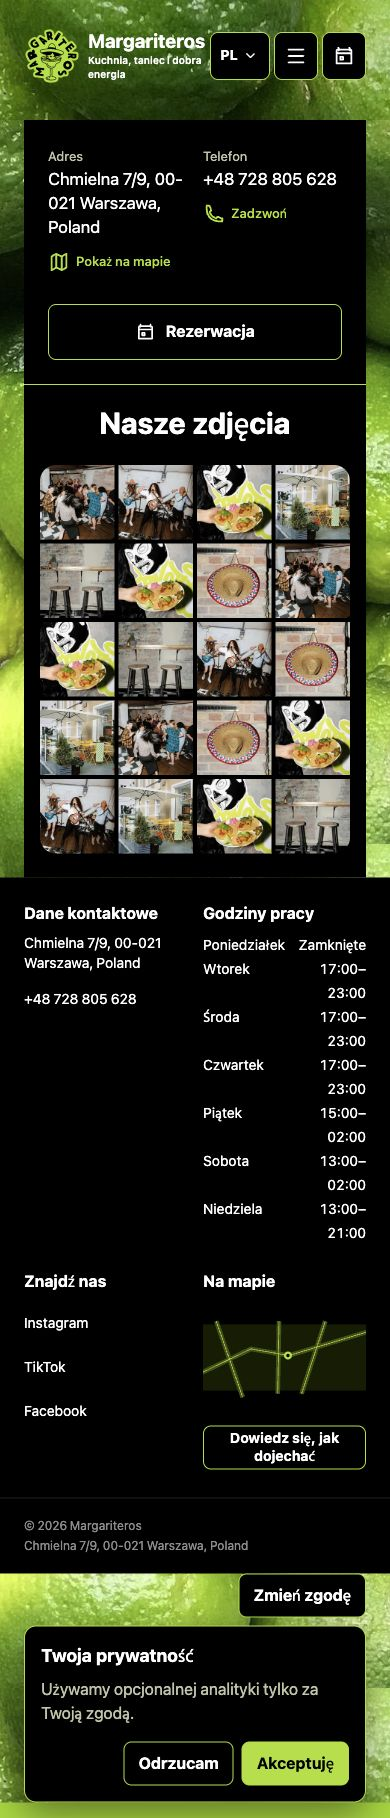
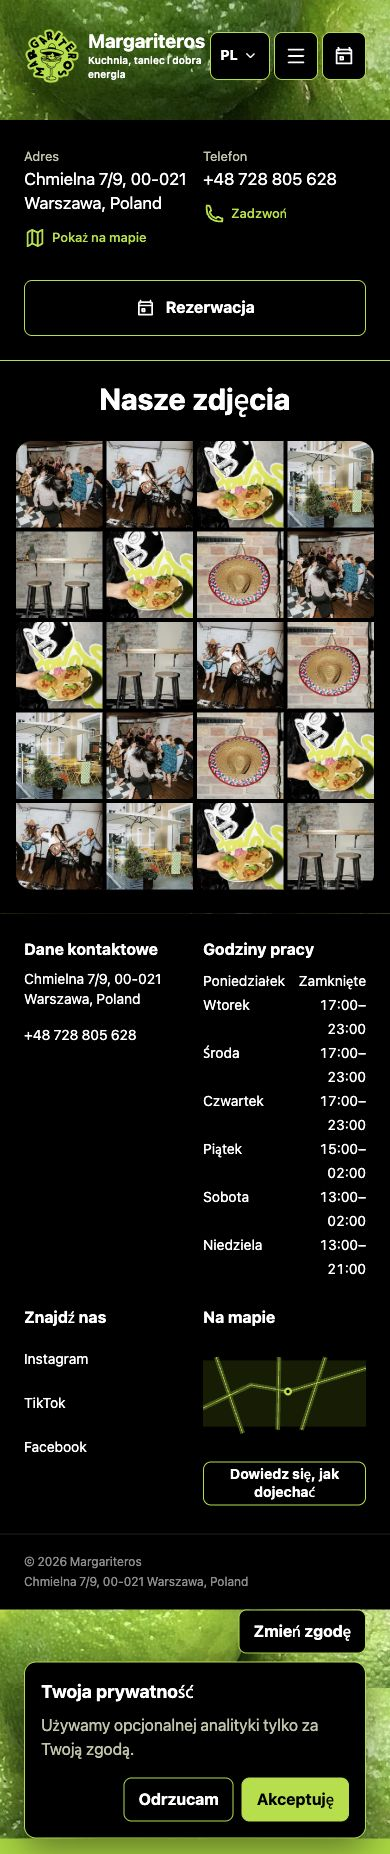
remove mobile stage gutters

diff --git a/site/src/styles/choiceqr.css b/site/src/styles/choiceqr.css
@@ -149,7 +149,7 @@ svg { display: block; }
   .icon-control { width: 44px; }
   .desktop-nav { display: none; }
   .content-stage-wrap { padding-top: 0; }
-  .content-stage { width: calc(100% - 48px); padding-bottom: 0; border-radius: 0; }
+  .content-stage { width: 100%; padding-bottom: 0; border-radius: 0; }
   .contact-bar { display: grid; height: auto; align-items: stretch; grid-template-columns: repeat(2, minmax(0, 1fr)); gap: 20px 16px; padding: 24px; }
   .contact-quickfacts { display: contents; }
   .contact-quickfacts > div { min-width: 0; }
@@ -185,7 +185,7 @@ svg { display: block; }
   .header-controls { top: 16px; }
   .language-menu summary { width: 44px; min-width: 44px; padding: 0; font-size: 12px; gap: 1px; }
   .language-menu summary svg { width: 14px; }
-  .content-stage { width: calc(100% - 32px); }
+  .content-stage { width: 100%; }
   .contact-bar { gap: 16px 12px; padding: 20px; }
   .photo-gallery { padding-inline: 12px; }
   .site-footer { padding-inline: 16px; }

diff --git a/site/tests/layout-contract.test.ts b/site/tests/layout-contract.test.ts
@@ -5,6 +5,7 @@ const widths = [320, 390, 597, 719, 720, 768, 1024, 1280] as const;
 type Geometry = {
   viewport: { width: number; height: number };
   scrollWidth: number;
+  contentStage: { left: number; right: number; width: number };
   headerOverlap: boolean;
   bookingOverlap: boolean;
   consentGalleryOverlap: boolean;
@@ -24,6 +25,13 @@ describe("responsive SSR geometry", () => {
 
       expect(result.viewport.width).toBe(width);
       expect(result.scrollWidth).toBe(width);
+      if (width <= 719) {
+        expect(result.contentStage.left).toBe(0);
+        expect(result.contentStage.right).toBe(width);
+      } else {
+        expect(result.contentStage.left).toBeGreaterThan(0);
+        expect(result.contentStage.right).toBeLessThan(width);
+      }
       expect(result.headerOverlap).toBe(false);
       expect(result.bookingOverlap).toBe(false);
       expect(result.consentGalleryOverlap).toBe(false);

diff --git a/site/docs/mobile-footer-verification.md b/site/docs/mobile-footer-verification.md
@@ -4,18 +4,18 @@ Checked on 2026-08-26 against the locally built SSR surface. The live https://qr
 
 Each width was measured in a browser after loading the built SSR response. “No overlap” covers brand versus header controls, quick facts versus booking, and consent versus both gallery and footer. scrollWidth equals the viewport in every case. The control minimum includes all visible links, buttons and the language summary.
 
-| Viewport | Scroll width | Header / booking overlap | Consent overlap | Min target | Footer after gallery | Footer height |
-| --- | ---: | --- | --- | ---: | --- | ---: |
-| 320 × 844 | 320 | no / no | no | 44 px | yes | 716 px |
-| 390 × 844 | 390 | no / no | no | 44 px | yes | 696 px |
-| 597 × 844 | 597 | no / no | no | 44 px | yes | 552 px |
-| 719 × 844 | 719 | no / no | no | 44 px | yes | 552 px |
-| 720 × 1024 | 720 | no / no | no | 44 px | yes | 536 px |
-| 768 × 1024 | 768 | no / no | no | 44 px | yes | 536 px |
-| 1024 × 1024 | 1024 | no / no | no | 44 px | yes | 440 px |
-| 1280 × 1024 | 1280 | no / no | no | 44 px | yes | 440 px |
+| Viewport | Stage | Scroll width | Header / booking overlap | Consent overlap | Min target | Footer after gallery | Footer height |
+| --- | --- | ---: | --- | --- | ---: | --- | ---: |
+| 320 × 844 | edge-to-edge | 320 | no / no | no | 44 px | yes | 716 px |
+| 390 × 844 | edge-to-edge | 390 | no / no | no | 44 px | yes | 696 px |
+| 597 × 844 | edge-to-edge | 597 | no / no | no | 44 px | yes | 552 px |
+| 719 × 844 | edge-to-edge | 719 | no / no | no | 44 px | yes | 552 px |
+| 720 × 1024 | centered | 720 | no / no | no | 44 px | yes | 536 px |
+| 768 × 1024 | centered | 768 | no / no | no | 44 px | yes | 536 px |
+| 1024 × 1024 | centered | 1024 | no / no | no | 44 px | yes | 440 px |
+| 1280 × 1024 | centered | 1280 | no / no | no | 44 px | yes | 440 px |
 
-The narrow 320px header has its own content-driven layout: a 36px logo and 90px wordmark fit beside three 44px controls without collision. At 720px the contact strip changes before the desktop columns become too wide: the available 672px stage is split into flexible quick facts plus a 176px booking action. Consent stays in document flow at every width, so it cannot cover the gallery or footer.
+The black content stage is edge-to-edge on phone widths through 719px; contacts and gallery keep their own internal spacing, and the next footer is already edge-to-edge. At 720px the centered container returns before the desktop columns become too wide: the available 672px stage is split into flexible quick facts plus a 176px booking action. Consent stays in document flow at every width, so it cannot cover the gallery or footer.
 
 The prior 390px staging capture had a fixed 342 × 224px contact strip, 278px gallery, 1080px footer and a consent control over the gallery. The repaired local 390px surface has a 265px contact block, 342px gallery, 696px footer and a consent control after the footer.
 
